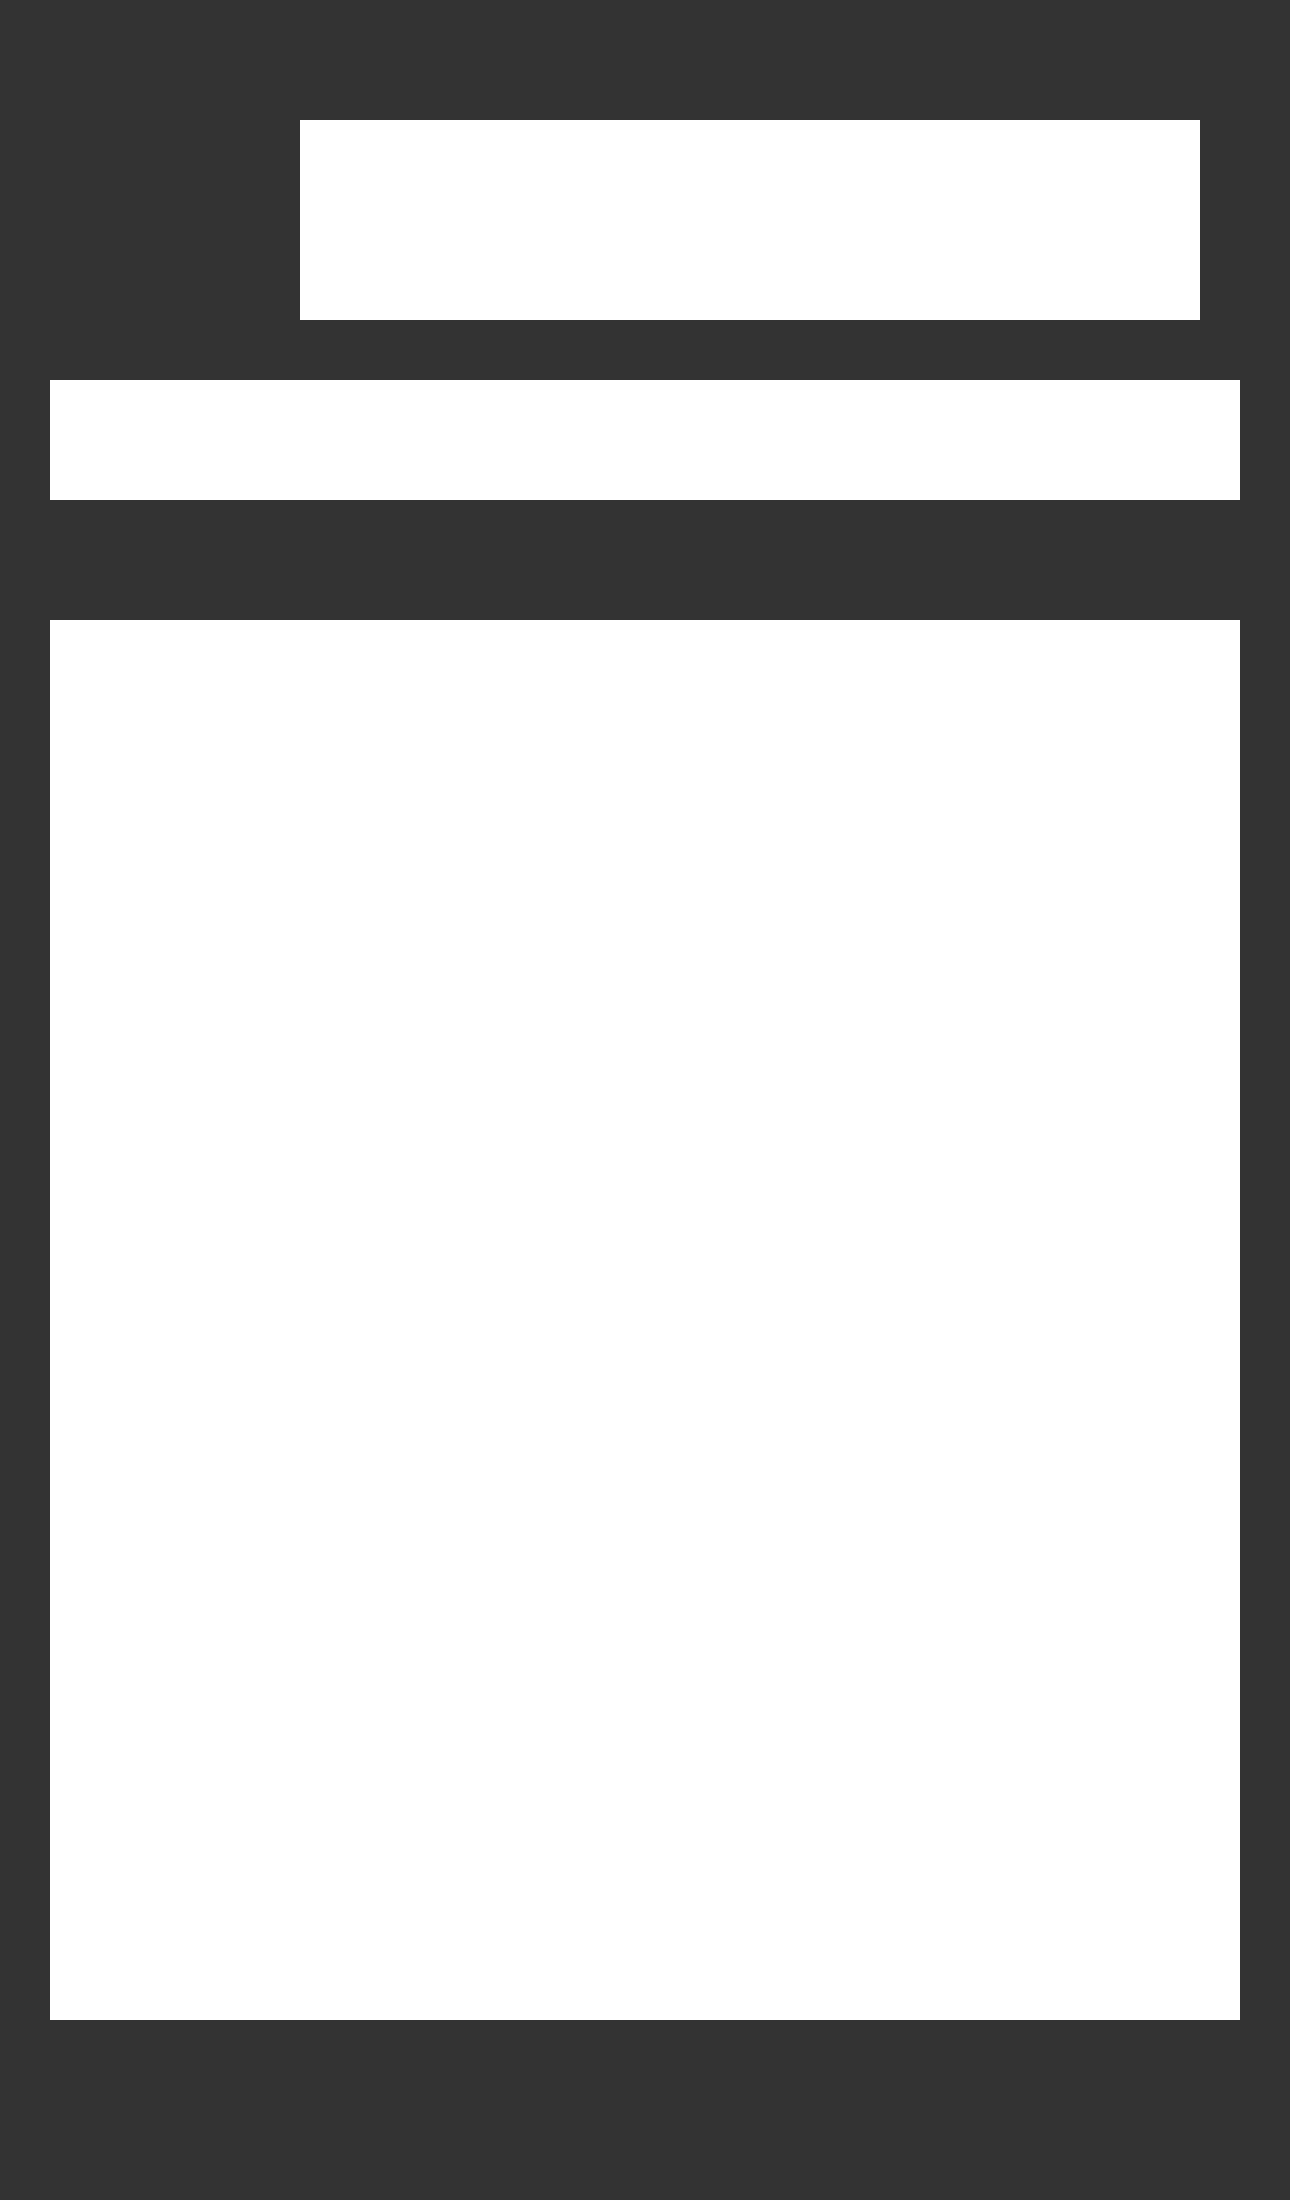
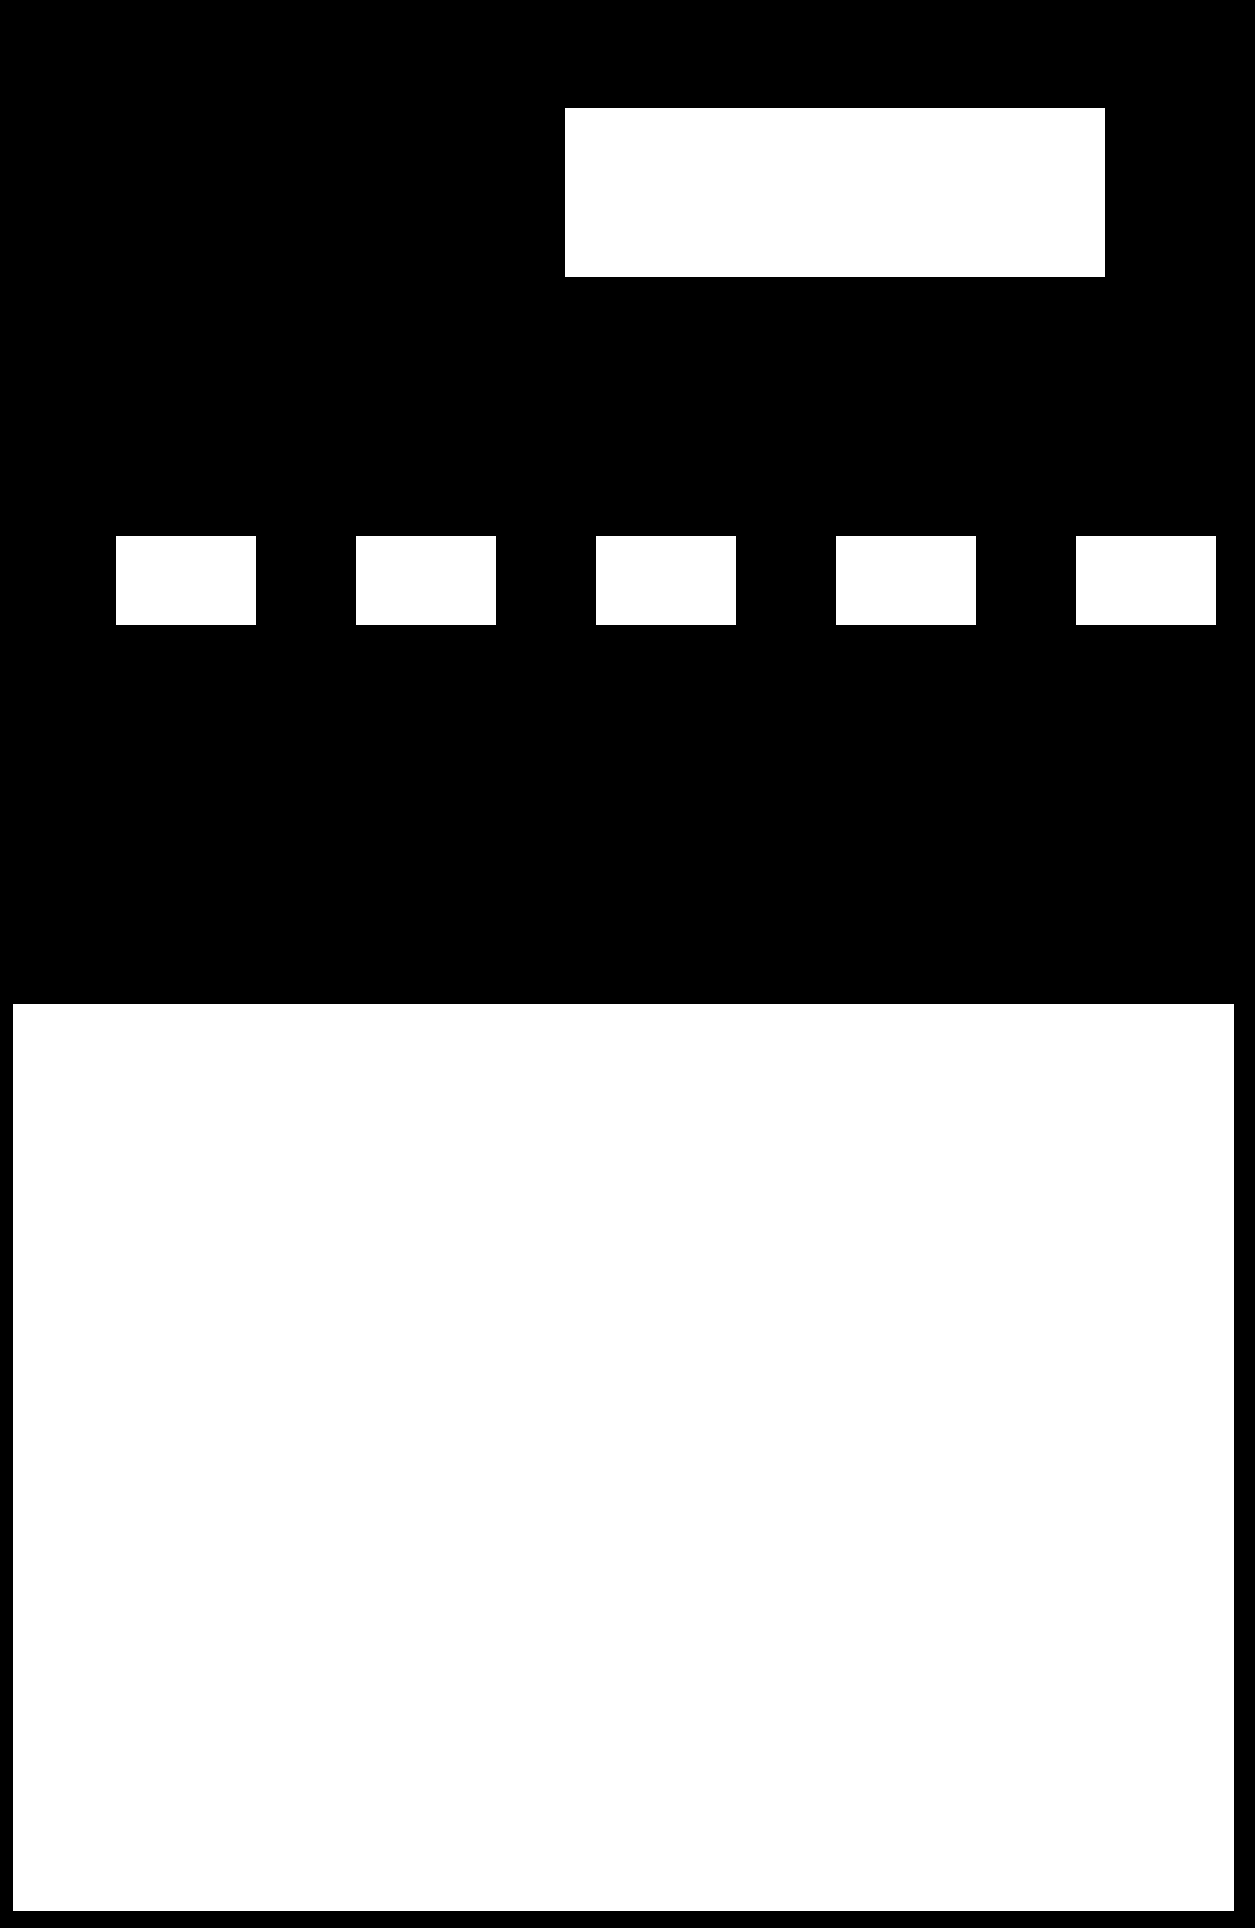
chore: added different layouts for masking data

diff --git a/src/modules/runners/components/ocr/wizard-import.tsx b/src/modules/runners/components/ocr/wizard-import.tsx
@@ -55,10 +55,10 @@ export function WizardImport({ onApply }: Readonly<WizardImportProps>) {
     try {
       reset();
 
-      const preparedImage = createPreparedImage(blob, 'full-details');
+      const preparedImage = createPreparedImage(blob, 'full-details-own');
       addPreparedImage(preparedImage);
 
-      const nextData = await processComposited(blob, 'full-details');
+      const nextData = await processComposited(blob, 'full-details-own');
       if (!nextData) {
         return;
       }
@@ -99,7 +99,9 @@ export function WizardImport({ onApply }: Readonly<WizardImportProps>) {
           <div key={entry.id} className="flex items-center gap-2">
             <div
               className={`px-2 py-1 rounded border ${
-                index <= activeStepIndex ? 'border-primary text-foreground bg-primary/10' : 'border-muted'
+                index <= activeStepIndex
+                  ? 'border-primary text-foreground bg-primary/10'
+                  : 'border-muted'
               }`}
             >
               {entry.label}
@@ -117,7 +119,7 @@ export function WizardImport({ onApply }: Readonly<WizardImportProps>) {
           </div>
 
           <MaskCanvasEditor
-            maskType="full-details"
+            maskType="full-details-own"
             processLabel="Scan"
             externalBusy={isProcessing}
             onProcess={(blob) => {
@@ -156,17 +158,26 @@ export function WizardImport({ onApply }: Readonly<WizardImportProps>) {
 
           <div className="flex flex-wrap gap-2 max-h-[84px] overflow-y-auto">
             {preparedImages.map((image, index) => (
-              <div key={`${image.preview}-${index}`} className="relative w-14 h-14 rounded-md border overflow-hidden">
+              <div
+                key={`${image.preview}-${index}`}
+                className="relative w-14 h-14 rounded-md border overflow-hidden"
+              >
                 <img src={image.preview} className="w-full h-full object-cover" />
                 <span className="absolute bottom-0 left-0 right-0 text-[10px] px-1 py-0.5 bg-black/70 text-white text-center">
-                  {image.maskType === 'full-details' ? 'Full' : 'Skills'}
+                  {image.maskType === 'full-details-own' && 'Full: Owned Runner'}
+                  {image.maskType === 'full-details-other' && 'Full: Partner Runner'}
+                  {image.maskType === 'skills-only' && 'Skills'}
                 </span>
               </div>
             ))}
           </div>
 
           <div className="flex-1 min-h-0 overflow-y-auto pr-1">
-            <OcrSkillsList results={results} isProcessing={isProcessing} onRemoveSkill={removeSkill} />
+            <OcrSkillsList
+              results={results}
+              isProcessing={isProcessing}
+              onRemoveSkill={removeSkill}
+            />
           </div>
 
           <div className="space-y-3">
@@ -288,7 +299,10 @@ export function WizardImport({ onApply }: Readonly<WizardImportProps>) {
             <span>{progress}%</span>
           </div>
           <div className="w-full bg-muted rounded-full h-2">
-            <div className="bg-primary h-2 rounded-full transition-all" style={{ width: `${progress}%` }} />
+            <div
+              className="bg-primary h-2 rounded-full transition-all"
+              style={{ width: `${progress}%` }}
+            />
           </div>
         </div>
       )}

diff --git a/src/modules/runners/components/ocr/advanced-import.tsx b/src/modules/runners/components/ocr/advanced-import.tsx
@@ -21,7 +21,7 @@ interface AdvancedImportProps {
 }
 
 export function AdvancedImport({ onApply, formId }: Readonly<AdvancedImportProps>) {
-  const [maskType, setMaskType] = useState<OcrMaskType>('full-details');
+  const [maskType, setMaskType] = useState<OcrMaskType>('full-details-own');
 
   const results = useOcrResults();
   const { updateResults, removeSkill, processComposited } = useOcrActions();
@@ -53,12 +53,22 @@ export function AdvancedImport({ onApply, formId }: Readonly<AdvancedImportProps
         <div className="inline-flex items-center rounded-md border p-1 gap-1 self-start">
           <Button
             type="button"
-            variant={maskType === 'full-details' ? 'default' : 'ghost'}
+            variant={maskType === 'full-details-own' ? 'default' : 'ghost'}
             size="sm"
-            onClick={() => setMaskType('full-details')}
+            onClick={() => setMaskType('full-details-own')}
           >
-            Full Details
+            Full: My Uma
           </Button>
+
+          <Button
+            type="button"
+            variant={maskType === 'full-details-other' ? 'default' : 'ghost'}
+            size="sm"
+            onClick={() => setMaskType('full-details-other')}
+          >
+            Full: Partner Uma
+          </Button>
+
           <Button
             type="button"
             variant={maskType === 'skills-only' ? 'default' : 'ghost'}
@@ -87,7 +97,10 @@ export function AdvancedImport({ onApply, formId }: Readonly<AdvancedImportProps
               <span>{progress}%</span>
             </div>
             <div className="w-full bg-muted rounded-full h-2">
-              <div className="bg-primary h-2 rounded-full transition-all" style={{ width: `${progress}%` }} />
+              <div
+                className="bg-primary h-2 rounded-full transition-all"
+                style={{ width: `${progress}%` }}
+              />
             </div>
           </div>
         )}

diff --git a/src/modules/runners/components/ocr/mask-canvas-editor.tsx b/src/modules/runners/components/ocr/mask-canvas-editor.tsx
@@ -41,7 +41,12 @@ const MIN_SCALE = 0.2;
 const MAX_SCALE = 4.0;
 
 const MASK_WINDOWS: Record<OcrMaskType, MaskWindow[]> = {
-  'full-details': [
+  'full-details-own': [
+    { label: 'Uma Name', x: 300, y: 120, width: 900, height: 200 },
+    { label: 'Stats', x: 50, y: 380, width: 1190, height: 120 },
+    { label: 'Skills', x: 50, y: 620, width: 1190, height: 1400 },
+  ],
+  'full-details-other': [
     { label: 'Uma Name', x: 300, y: 120, width: 900, height: 200 },
     { label: 'Stats', x: 50, y: 380, width: 1190, height: 120 },
     { label: 'Skills', x: 50, y: 620, width: 1190, height: 1400 },
@@ -183,7 +188,9 @@ export function MaskCanvasEditor({
     setTransform(createFitTransform(image, maskWidth, maskHeight));
   };
 
-  const getCanvasPoint = (event: PointerEvent<HTMLCanvasElement> | WheelEvent<HTMLCanvasElement>) => {
+  const getCanvasPoint = (
+    event: PointerEvent<HTMLCanvasElement> | WheelEvent<HTMLCanvasElement>,
+  ) => {
     const canvas = canvasRef.current;
     if (!canvas) {
       return { x: 0, y: 0 };

diff --git a/src/modules/runners/components/ocr/use-mask-compositor.ts b/src/modules/runners/components/ocr/use-mask-compositor.ts
@@ -9,7 +9,8 @@ type CachedMask = {
 };
 
 const MASK_PATHS: Record<OcrMaskType, string> = {
-  'full-details': '/masks/mask-full-details.png',
+  'full-details-own': '/masks/mask-full-details-own.png',
+  'full-details-other': '/masks/mask-full-details-other.png',
   'skills-only': '/masks/mask-skills-only.png',
 };
 
@@ -92,7 +93,7 @@ export function useMaskCompositor(maskType: OcrMaskType) {
   useEffect(() => {
     let isMounted = true;
 
-    void loadMask(maskType)
+    loadMask(maskType)
       .then((mask) => {
         if (!isMounted) {
           return;

diff --git a/src/modules/runners/components/ocr/types.ts b/src/modules/runners/components/ocr/types.ts
@@ -1,5 +1,5 @@
 export type OcrImportMode = 'wizard' | 'advanced';
-export type OcrMaskType = 'full-details' | 'skills-only';
+export type OcrMaskType = 'full-details-own' | 'full-details-other' | 'skills-only';
 
 export interface CanvasTransform {
   x: number;
